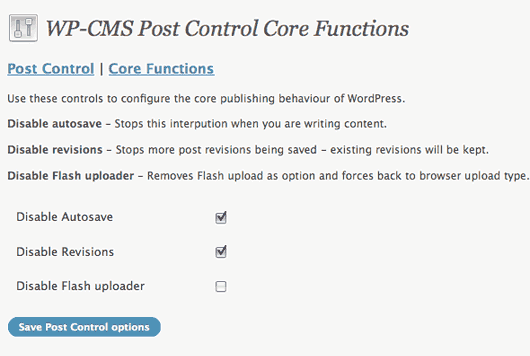
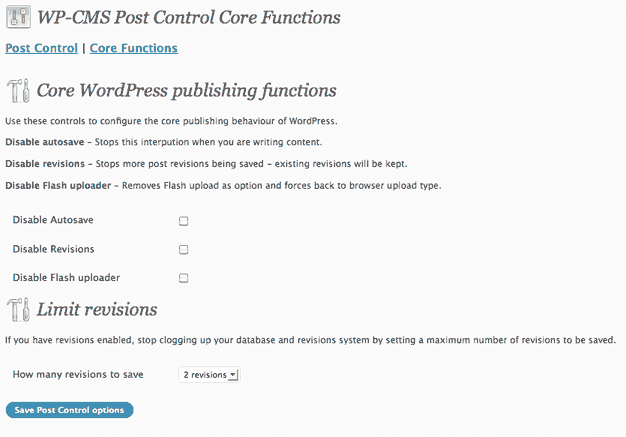
- Fix bug when no options selected - Added new control for number of revisions to be saved
git-svn-id: https://plugins.svn.wordpress.org/wp-cms-post-control/trunk@251426 b8457f37-d9ea-0310-8a92-e5e31aec5664

diff --git a/wp-cms-post-control.php b/wp-cms-post-control.php
@@ -1,7 +1,7 @@
 <?php
 /*
 Plugin Name: WP-CMS Post Control
-Version: 2.12
+Version: 2.2
 Plugin URI: http://wp-cms.com/our-wordpress-plugins/wp-cms-post-control-plugin/
 Description: Hides unwanted items within the write/edit page and post admin area for each user role. Also controls autosave, revisions and flash uploader.
 Author: Jonnya Creative WordPress Consultant
@@ -12,7 +12,7 @@ License: GPL
 /****
 
 View readme.txt for full documentation or view documentation at http://wordpress.org/extend/plugins/wp-cms-post-control
-The latest version of this plugin (along with all other versions) can be downloaded from http://wordpress.org/extend/plugins/wp-cms-post-control
+Official download repository: http://wordpress.org/extend/plugins/wp-cms-post-control - The latest version (and all older versions) of Post Control should always be downloaded from here only.
 
 ****/
 
@@ -81,6 +81,42 @@ function wpcms_pcontrol_ex_init(){
 				
 			if ( $key == 'autosave' && $value == 'off' ) {
 				wp_deregister_script('autosave');
+			}
+				
+		}
+		
+	}
+	
+}
+
+
+
+/**
+* Run Post Control extended functions that need to be run early
+*
+* @since 2.2
+* @lastupdate 2.2
+* 
+*/
+function wpcms_pcontrol_ex_revisions(){
+	
+	$ex_doit = new wpcms_pcontrol_engine;
+	
+	$options = get_option('wpcms_pcontrolopts_ex');
+	
+	//Check for some options
+	if (is_array($options)) {
+	
+		foreach ($options as $key => $value) {
+				
+			if ( $key == 'revision_num' && $value != '' ) {
+				
+				if ($value == 0) {
+					//Saved as unlimited so do nothing
+				} else {
+					$limit_revisions = $value;
+					define('WP_POST_REVISIONS', $limit_revisions );
+				}
 			}
 				
 		}
@@ -172,28 +208,32 @@ function wpcms_pcontrol_do_page_ex() {
 * Processes main post control options 
 *
 * @since 2.0
-* @lastupdate 2.01
+* @lastupdate 2.2
 * 
 */
 function wpcms_pcontrol_validate($input) {	
 
-	// PAGE OPERATIONS 
-	$pc_administrator_pageopsall = array();
-	$pc_editor_pageopsall = array();
+	if ($input !='') { // Catch if no options selected
 	
-	foreach($input as $key => $value) {
-
-		$adminmatch = "/_page_administrator/";
-		$editormatch = "/_page_editor/";
+		// PAGE OPERATIONS 
+		$pc_administrator_pageopsall = array();
+		$pc_editor_pageopsall = array();
 		
-		if (preg_match($adminmatch, $key)) {
-		    $pc_administrator_pageopsall[] = wp_kses_data($value);
+		foreach($input as $key => $value) {
 	
-		} elseif (preg_match($editormatch, $key)) {
-			$pc_editor_pageopsall[] = wp_kses_data($value);
-	
+			$adminmatch = "/_page_administrator/";
+			$editormatch = "/_page_editor/";
+			
+			if (preg_match($adminmatch, $key)) {
+			    $pc_administrator_pageopsall[] = wp_kses_data($value);
+		
+			} elseif (preg_match($editormatch, $key)) {
+				$pc_editor_pageopsall[] = wp_kses_data($value);
+		
+			}
+			
 		}
-		
+	
 	}
 	
 	$input['pc_administrator_pageops'] = $pc_administrator_pageopsall;
@@ -277,7 +317,7 @@ function wpcms_pcontrol_validate($input) {
 * Processes common extended post control options 
 *
 * @since 2.1
-* @lastupdate 2.1
+* @lastupdate 2.2
 * 
 */
 function wpcms_pcontrol_validate_ex($input) { 
@@ -285,9 +325,20 @@ function wpcms_pcontrol_validate_ex($input) {
 	if ($input !='') {
 	
 	foreach($input as $key => $value) {
+		
+			//Process the advanced option first
+		if ($key == 'revision_num') {
+			//Only allow a number, nothing else!
+			if (is_numeric($value)) {
+				$input[$key] = $value;
+			} else { 
+			//Silence is golden
+				$input[$key] = '';
+			}	
+		}
 	
 		//Only allow 'off' as option
-		if ($value == 'off') { 
+		elseif ($value == 'off') { 
 			//Set value or set nothing
 			$input[$key] = ( $input[$key] == $value ? $value : '' ); 
 		} else {
@@ -317,7 +368,12 @@ function wpcms_pcontrol_uninstall() {
 	delete_option('wpcms_pcontrolopts_ex');
 }
 
+
+
 //Post Control Go!
+
+//This one seems to need to be called early
+add_action( 'plugins_loaded', 'wpcms_pcontrol_ex_revisions' );
 
 add_action('init', 'wpcms_pcontrol_ex_init');
 

diff --git a/inc/wp-cms-opts-pcontrol-ex.php b/inc/wp-cms-opts-pcontrol-ex.php
@@ -16,6 +16,8 @@
 
 	<h3><a href="<?php echo admin_url('options-general.php?page=wpcms_pcontrol'); ?>" title="Main post control options">Post Control</a> | <a href="<?php echo admin_url('options-general.php?page=wpcms_pcontrol_ex'); ?>" title="Core WordPress publishing functions">Core Functions</a></h3>
 
+	<div id="icon-tools" class="icon32"><br /></div>
+	<h2>Core WordPress publishing functions</h2>
 	<p>Use these controls to configure the core publishing behaviour of WordPress.</p>
 	<p><strong>Disable autosave</strong> - Stops this interpution when you are writing content.</p>
 	<p><strong>Disable revisions</strong> - Stops more post revisions being saved - existing revisions will be kept.</p>
@@ -68,7 +70,56 @@
 			}
 			?>
 		
-		</table>	
+		</table>
+		
+
+
+		<div id="icon-tools" class="icon32"><br /></div>
+		<h2>Limit revisions</h2>
+		<p>If you have revisions enabled, stop clogging up your database and revisions system by setting a maximum number of revisions to be saved.</p>
+
+		<table class="form-table">	
+		
+			<tr>
+				<th scope="row">How many revisions to save</th>
+				<td>
+
+			<select name="wpcms_pcontrolopts_ex[revision_num]" id="asave">
+				<option value="<?php echo $options['revision_num']; ?>"> 
+				<?php 
+				//Setup nice display of saved value
+				if ($options['revision_num'] == '0' || !$options['revision_num']) {
+					echo "No limit";
+				} else {
+					echo $options['revision_num'];
+					if ($options['revision_num'] == '1') { echo ' revision'; } else { echo ' revisions'; }
+				}
+				 ?>
+				</option>
+				<option class="level-0" value="1">1</option>
+				<option class="level-0" value="2">2</option>
+				<option class="level-0" value="3">3</option>
+				<option class="level-0" value="4">4</option>
+				<option class="level-0" value="5">5</option>
+				<option class="level-0" value="6">6</option>
+				<option class="level-0" value="7">7</option>
+				<option class="level-0" value="8">8</option>
+				<option class="level-0" value="9">9</option>
+				<option class="level-0" value="10">10</option>
+				<option class="level-0" value="11">11</option>
+				<option class="level-0" value="12">12</option>
+				<option class="level-0" value="13">13</option>
+				<option class="level-0" value="14">14</option>
+				<option class="level-0" value="15">15</option>
+				<option class="level-0" value="0">No limit</option>
+			</select>
+
+				</td>
+			</tr>
+		
+		</table>
+
+
 
 		<p class="submit">
 		<input type="submit" class="button-primary" value="<?php _e('Save Post Control options') ?>" />

diff --git a/inc/wp-cms-opts-pcontrol-main.php b/inc/wp-cms-opts-pcontrol-main.php
@@ -105,7 +105,8 @@
 			'Excerpt' => 'postexcerpt', 
 			'Revisions' => 'revisionsdiv', 
 			'Tags' => 'tagsdiv-post_tag', 
-			'Trackbacks' => 'trackbacksdiv'
+			'Trackbacks' => 'trackbacksdiv',
+			'Post thumbnail' => 'postimagediv'
 			);		
 			
 			//Generate form from array

diff --git a/inc/wp-cms-class-pcontrol.php b/inc/wp-cms-class-pcontrol.php
@@ -111,7 +111,6 @@ class wpcms_pcontrol_engine {
 			
 		}
 	}
-	
 
 	
 	/**
@@ -150,5 +149,6 @@ class wpcms_pcontrol_engine {
 	}
 	
 }
+
 
 ?>
